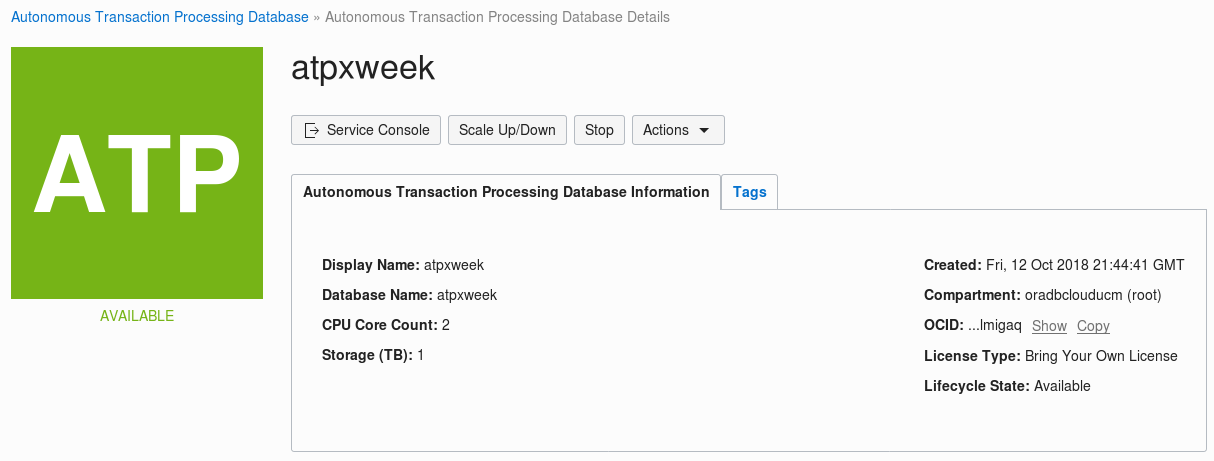
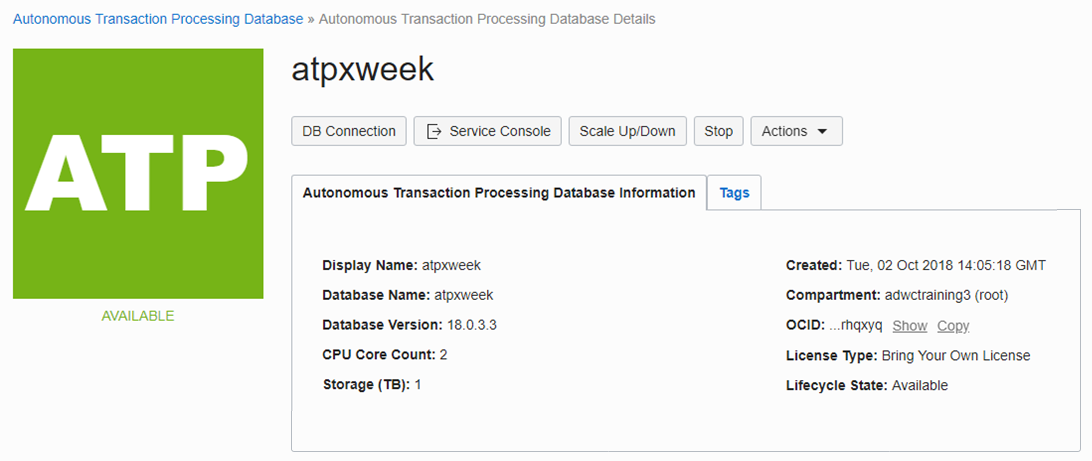
updating ATP images/descriptions for UI changes

diff --git a/ziplabs/atp-scaling/README.md b/ziplabs/atp-scaling/README.md
@@ -30,13 +30,13 @@ Autonomous Transaction Processing allows you to scale the CPU core count and sto
 
     [Description of the illustration MyServicesMenu.png](files/MyServicesMenu.txt)
 
-5. You're taken to the ATP Cloud Console you used during the provisioning exercise. Click the name of the ATP instance you created earlier.
+5. You're taken to the ATP Cloud Console you used during the provisioning lab. Click the name of the ATP instance you created earlier. 
 
     ![](img/ATPMenu.png)
 
     [Description of the ATPMenu.png](files/ATPMenu.txt)
 
-6. You're taken to the instance page. Notice that among the details displayed about your ATP instance, there are currently has 2 CPU’s allocated.
+6. You're taken to the instance page. You may also have this page already available if you've kept your browser tabs open from the previous labs. Notice that among the details displayed about your ATP instance, there are currently has 2 CPU’s allocated.
 7. Click the **Scale Up/Down** button.
 8. This opens a Scale Up/Down menu. Within this menu:
      * Increase the **CPU Core Count** to 4
